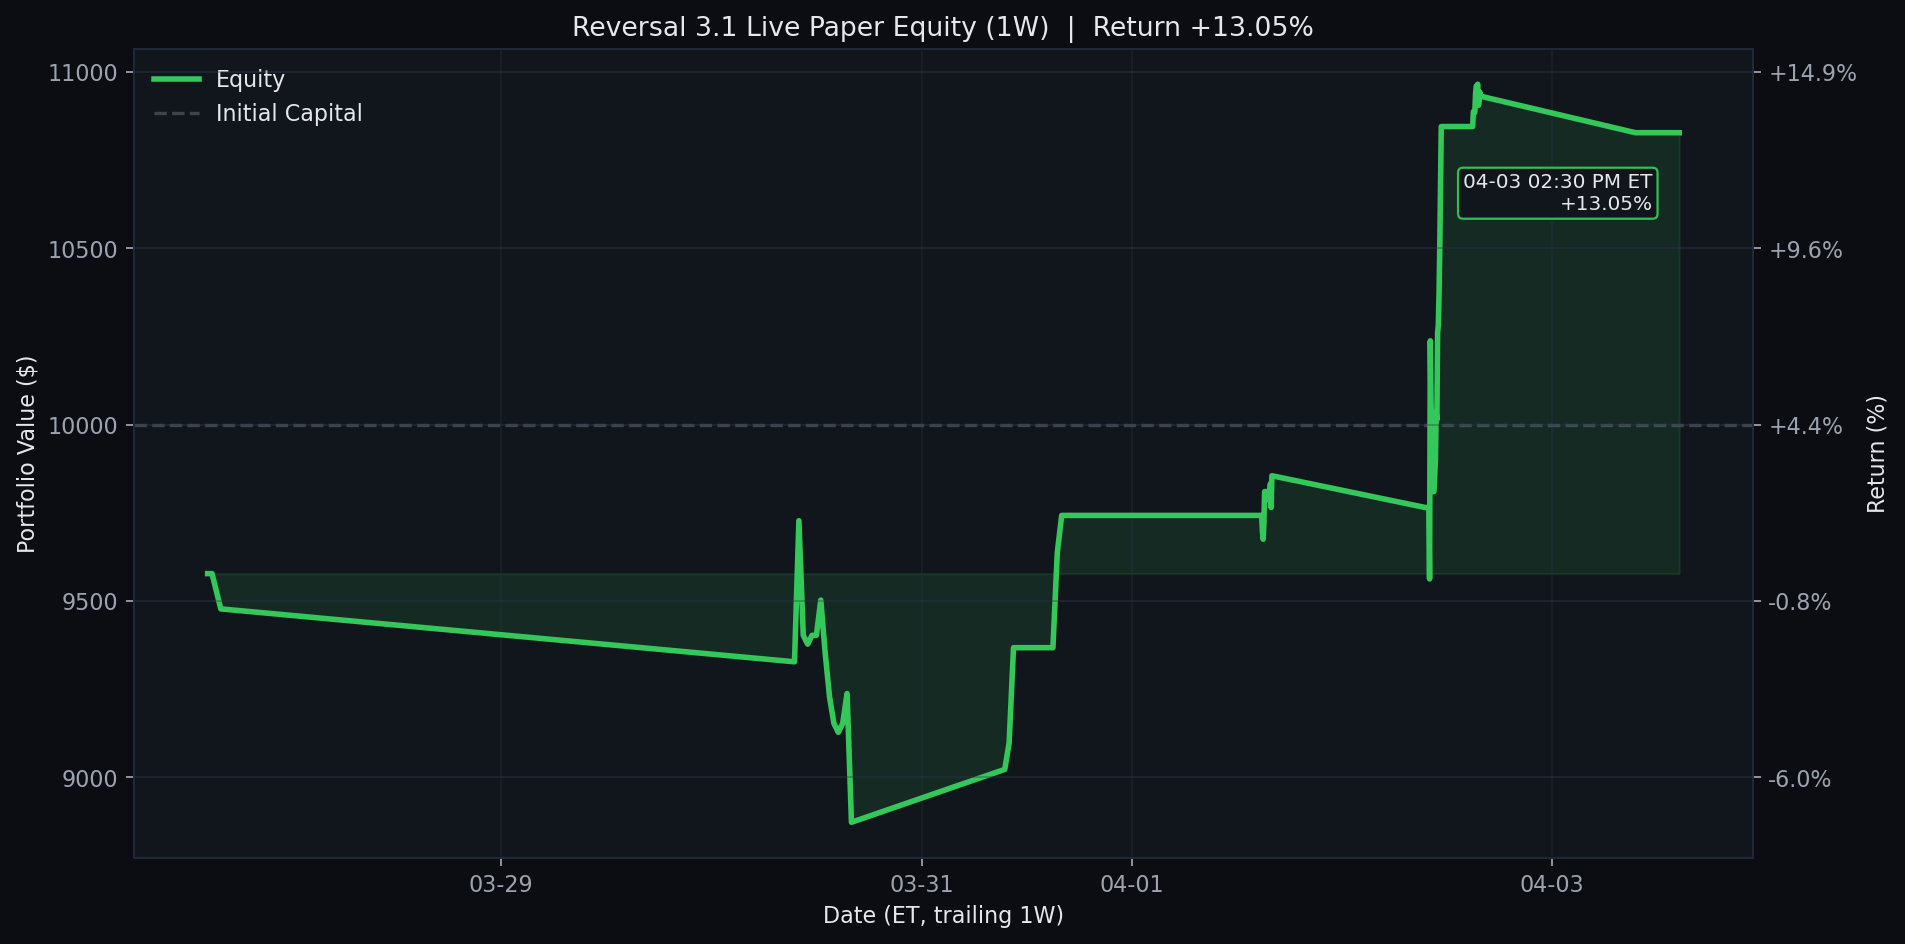
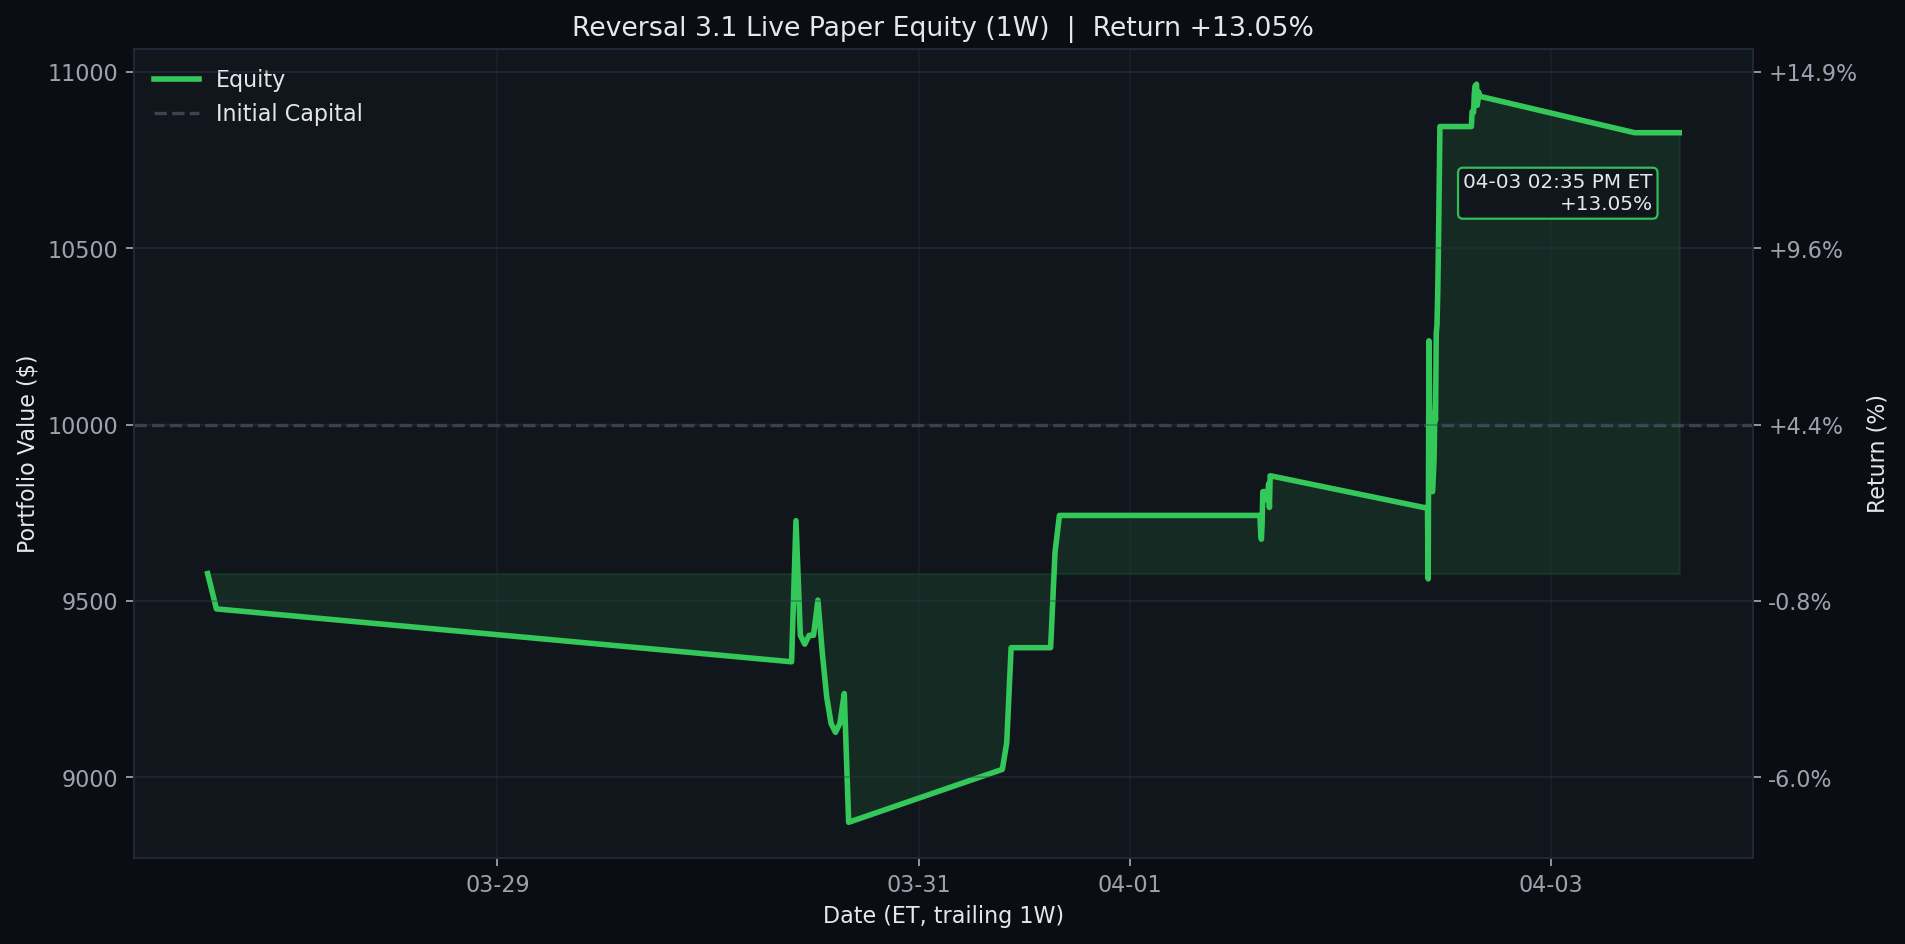
Update Reversal 3.1 live paper test 2026-04-03 14:35 ET

diff --git a/results/reversal_3_1_live/README.md b/results/reversal_3_1_live/README.md
@@ -1,6 +1,6 @@
 # Reversal 3.1 Live Paper Test
 
-Last updated (ET): `2026-04-03 14:30:00 EDT`
+Last updated (ET): `2026-04-03 14:35:05 EDT`
 Last processed slot: `manage_1430`
 
 ## Active Configuration
@@ -58,6 +58,7 @@ ticker  success_rate_%  matched_signals  current_drop_%  target_rebound_$  targe
 
 ```text
                     timestamp_et        slot   event_type                          detail
+2026-04-03T14:35:05.880366-04:00 manage_1430 slot_skipped {"reason": "already_processed"}
 2026-04-03T14:30:00.896990-04:00 manage_1430 slot_skipped {"reason": "already_processed"}
 2026-04-03T14:25:01.014165-04:00 manage_1430 slot_skipped {"reason": "already_processed"}
 2026-04-03T14:10:05.890389-04:00 manage_1400 slot_skipped {"reason": "already_processed"}
@@ -67,7 +68,6 @@ ticker  success_rate_%  matched_signals  current_drop_%  target_rebound_$  targe
 2026-04-03T13:40:05.891644-04:00 manage_1330 slot_skipped {"reason": "already_processed"}
 2026-04-03T13:35:05.895244-04:00 manage_1330 slot_skipped {"reason": "already_processed"}
 2026-04-03T13:30:05.908290-04:00 manage_1330 slot_skipped {"reason": "already_processed"}
-2026-04-03T13:25:05.909308-04:00 manage_1330 slot_skipped {"reason": "already_processed"}
 ```
 
 ## Equity Curves

diff --git a/README.md b/README.md
@@ -3,7 +3,7 @@
 <!-- reversal-3.1-live:start -->
 ## Reversal 3.1 Live Paper Test
 
-- Last updated (ET): `2026-04-03 14:30:00 EDT`
+- Last updated (ET): `2026-04-03 14:35:05 EDT`
 - Equity: `$10,827.50` | Realized: `$845.00` | Unrealized: `$-17.50` | Open positions: `1`
 - Today closed trades: `0`
 - Current slot: `manage_1430`
